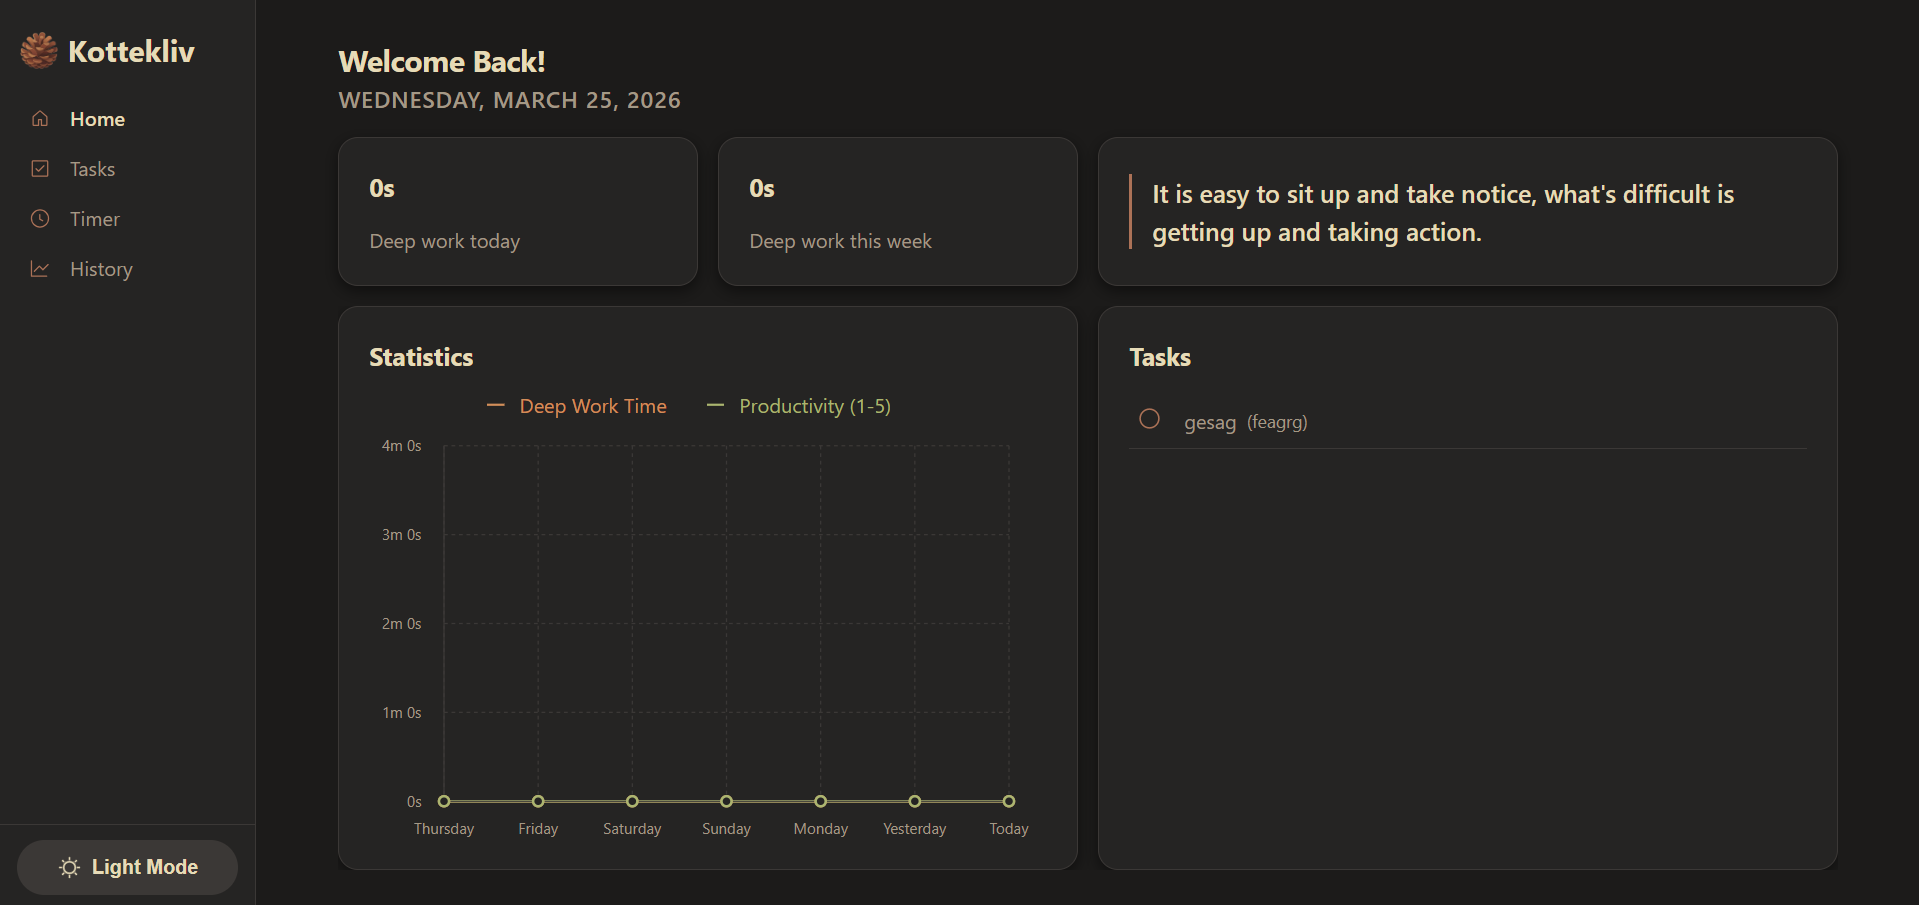
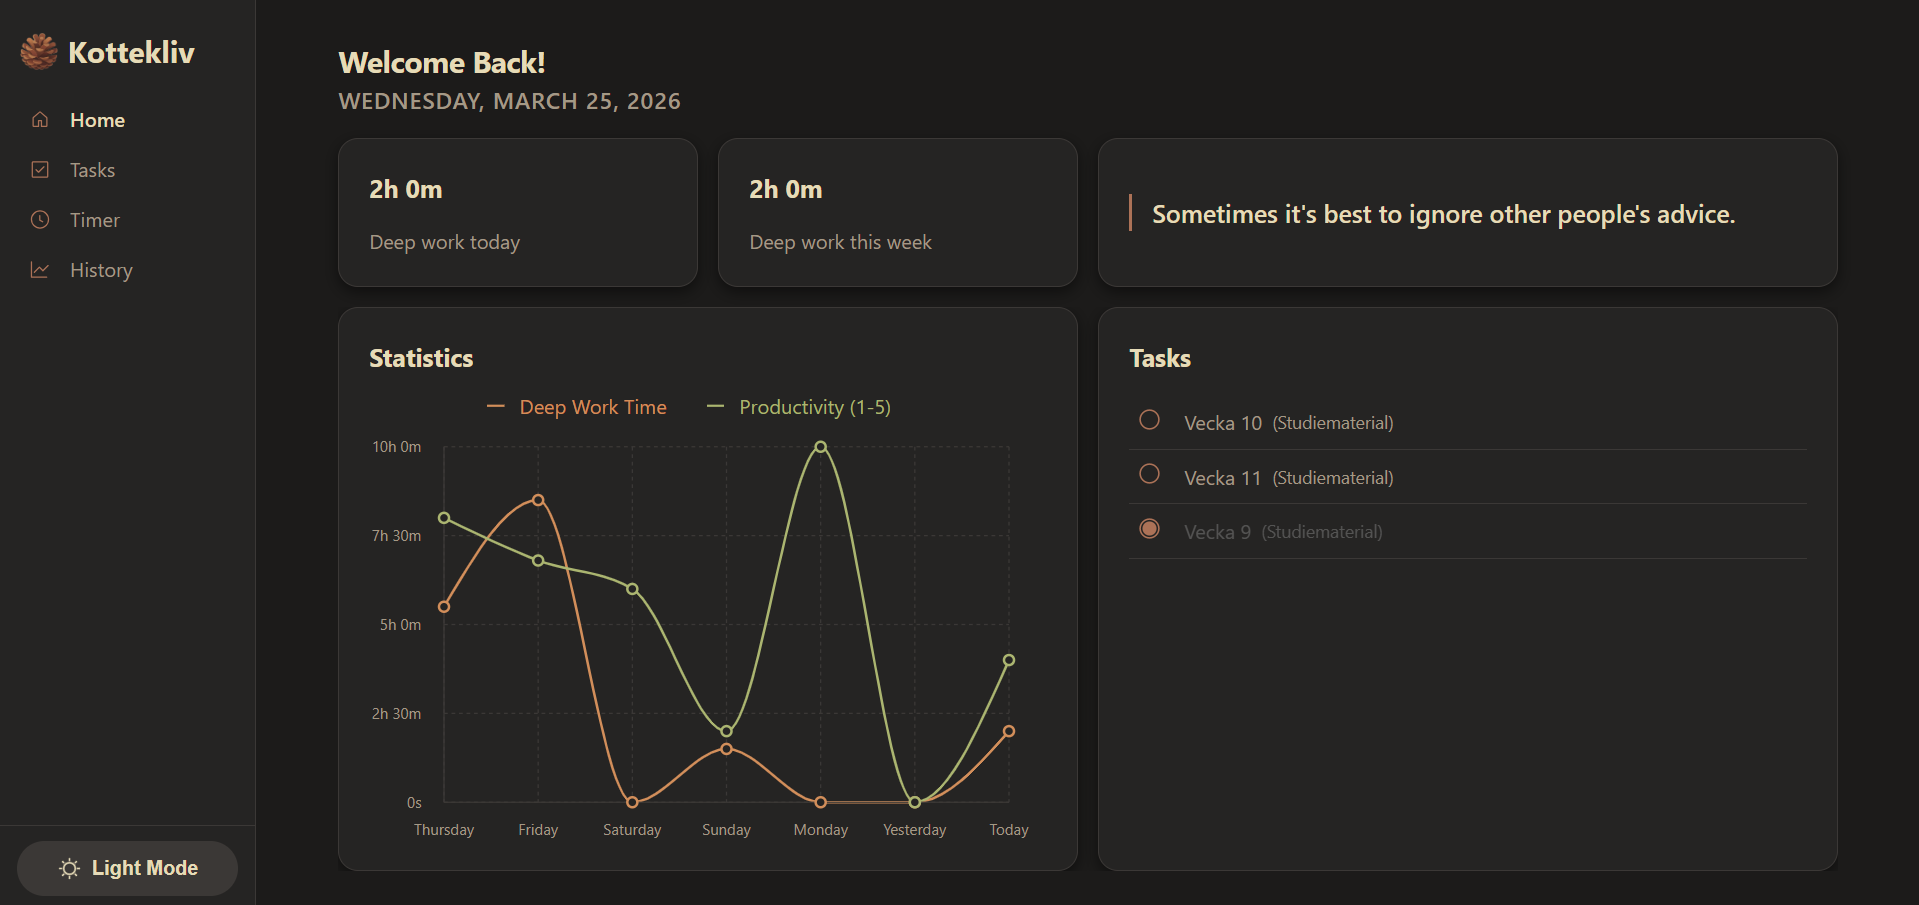
bytt ut preview bilder och uppdaterat beskrivning för kottekliv

diff --git a/src/sections/ProjectsSection/ProjectsSection.tsx b/src/sections/ProjectsSection/ProjectsSection.tsx
@@ -10,8 +10,8 @@ export default function ProjectsSection() {
       <h2>Utvalda Projekt</h2>
       <ProjectCard
         title="Produktivitetsapp"
-        description="En webbaserad lösning för tidshantering, utvecklad som ett samarbetsprojekt. Appen erbjuder både vanligt stoppur och pomodoro-timer där sessioner loggas och visualiseras genom grafer. Inkluderar en integrerad Todo-modul för uppgiftshantering. Projektet är under aktiv utveckling."
-        skills={["TypeScript", "React", "Context API", "Data Visualization", "React Router"]}
+        description="Ett produktivitetsverktyg för tidshantering, utvecklat som ett samarbetsprojekt i ett monorepo. Projektet omfattar en komplett webbapplikation i React samt utvalda delar implementerade i React Native för att utforska koddelning mellan plattformar. Appen erbjuder både stoppur och pomodoro-timer med datavisualisering via grafer, samt en integrerad Todo-modul för uppgiftshantering."
+        skills={["TypeScript", "React", "React Native", "Monorepo", "Jest Testing", "Context API", "Data Visualization"]}
         codeLink="https://github.com/goteborg-1/kottekliv-productivity-app"
         demoLink="https://kottekliv.com/"
         previewImg={{link: kotteklivImg, alt: "Kottekliv website preview"}}
